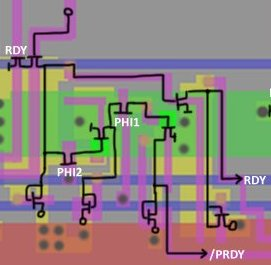
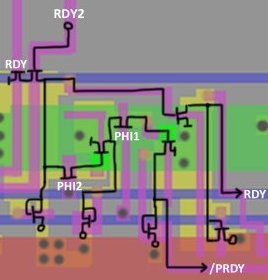
RDY2

diff --git a/Scripts/TopoShredder.py b/Scripts/TopoShredder.py
@@ -90,7 +90,7 @@ def ApuShredder (FusedTopo):
 	CropImage (FusedTopo, imgstore + "apu_core_phi_internal", [9660, 6075, 791, 397] )
 	CropImage (FusedTopo, imgstore + "apu_core_phi1_ext", [7736, 6065, 294, 413] )
 	CropImage (FusedTopo, imgstore + "apu_core_phi2_ext", [8734, 6077, 623, 373] )
-	CropImage (FusedTopo, imgstore + "apu_core_rdy", [7994, 6217, 271, 265] )
+	CropImage (FusedTopo, imgstore + "apu_core_rdy", [7994, 6203, 268, 280] )
 	CropImage (FusedTopo, imgstore + "apu_core_res", [8247, 6270, 535, 183] )
 	CropImage (FusedTopo, imgstore + "apu_core_rw", [10983, 6265, 264, 287] )
 	CropImage (FusedTopo, imgstore + "apu_core_so", [9351, 6118, 307, 364] )
